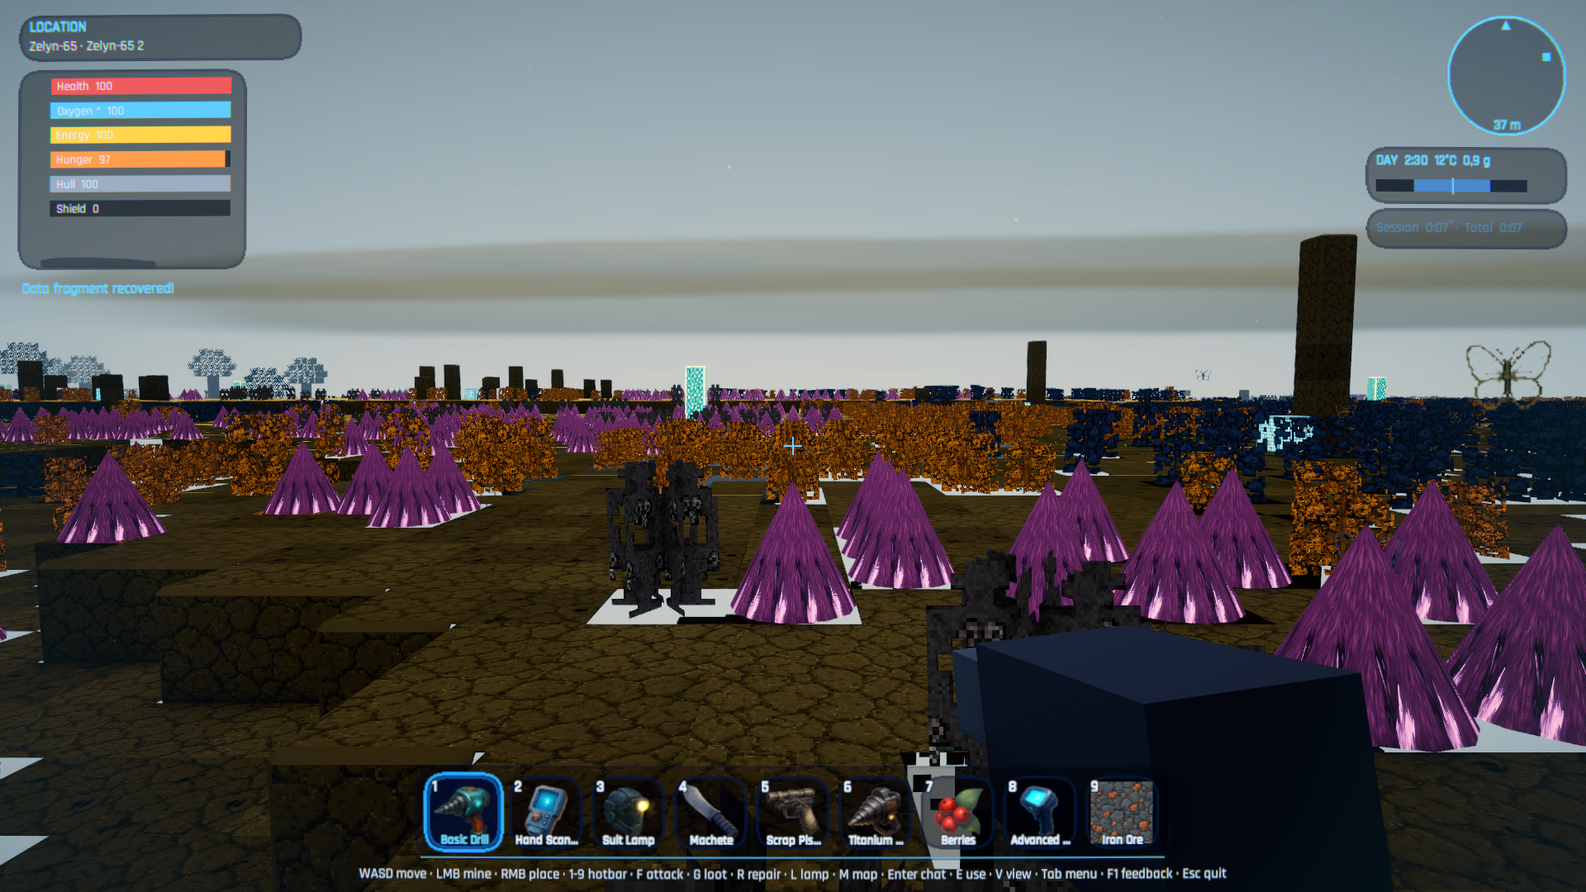
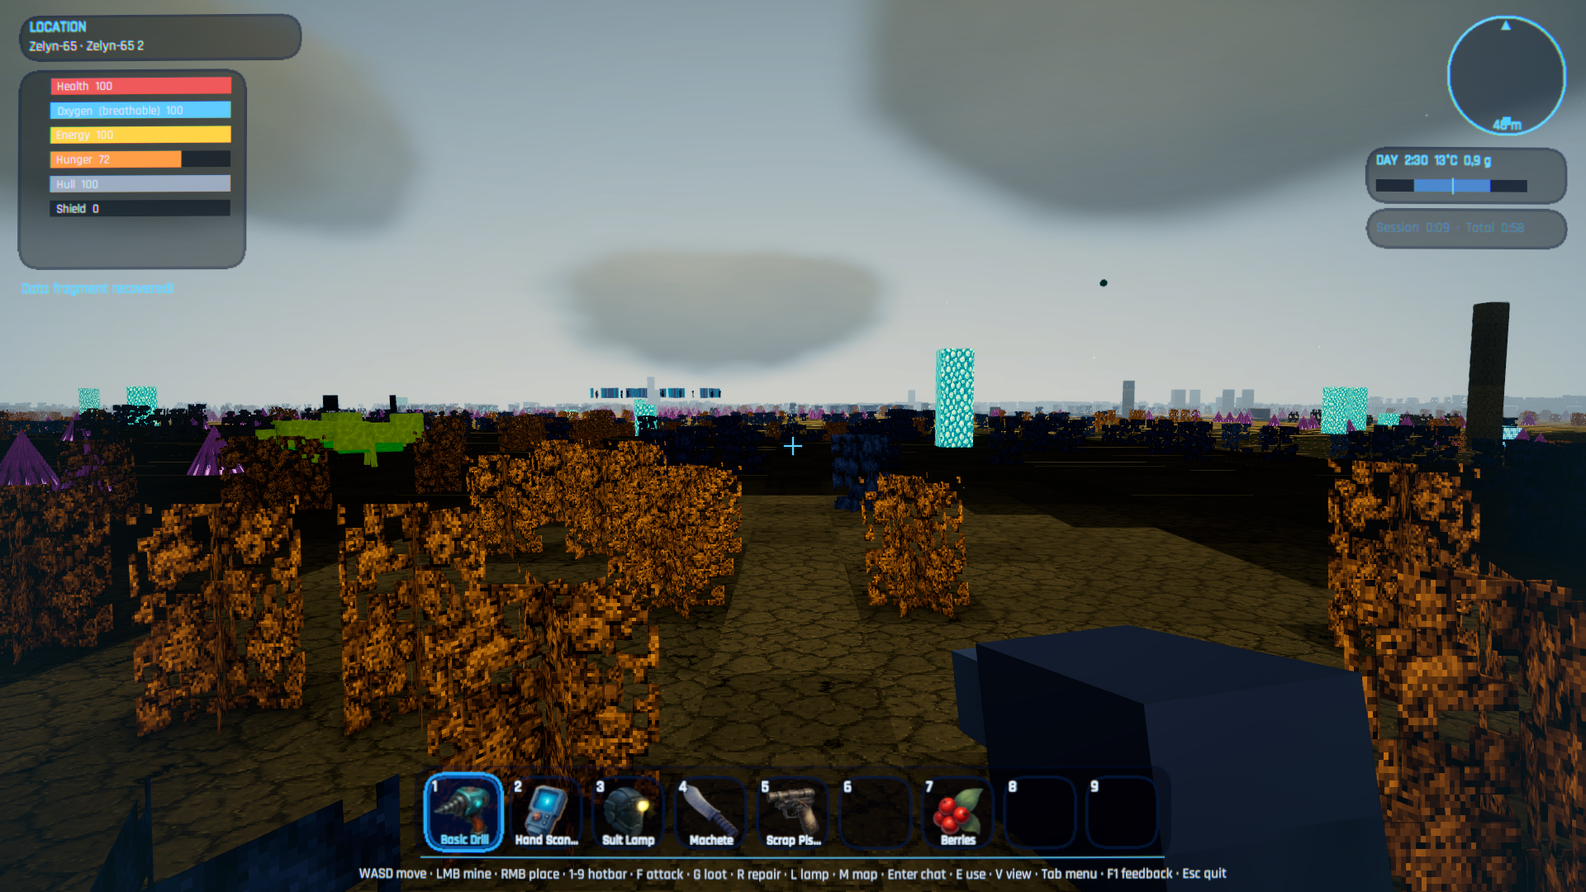
docs(screenshots): regenerate EN marketing set; fix capture director for v0.8.4 (#405)
Regenerates all 13 English marketing screenshots (docs/screenshots/en)
against the current engine — the visual-fidelity fixes of v0.8.4 finally
show in the gallery. The unattended capture run itself had rotted in four
independent ways and is fixed:

- #401 (quit saves live position) made reused MarketingShots saves resume
  with the player on foot OUTSIDE the ship: cockpit shots showed terrain
  and EnterSpace was refused. The wrapper now deletes the main-sequence
  save before each run; the per-planet path skips the take-off round-trip
  when not aboard (waiting up to 8 s for the late Aboard flag) and anchors
  placement on boot.ShipPosition so re-runs don't drift outward.
- A fresh world spawns the player seated at the helm, whose pilot view
  re-locks the camera every frame — surface shots came out as the cockpit
  interior. The per-planet path now does the same EnterSpace→LeaveSpace
  round-trip as the main sequence to step out of the seat.
- The ship's glass skylight has no collider, so the open-sky probe passed
  INSIDE the hull and posed the player facing the Workshop door. A 4-side
  enclosure check rejects interior spots, and the pose now faces away from
  the ship so every surface shot shows the planet's landscape.
- WorldReady defaults true, so the cockpit shot could race the loading
  curtain and capture the black "Loading world" veil. The director waits
  for the new WorldLoadingOverlay.VeilActive capture hook instead.
[…]

diff --git a/client/Assets/BlocksBeyondTheStars/Scripts/ScreenshotDirector.cs b/client/Assets/BlocksBeyondTheStars/Scripts/ScreenshotDirector.cs
@@ -204,7 +204,13 @@ namespace BlocksBeyondTheStars.Client
                 yield break;
             }
 
+            // Wait until the world has FULLY revealed — the loading curtain has faded — not merely WorldReady, which
+            // defaults true and can pass this instant before the load flips it false, catching the cockpit shot on
+            // the black "Loading world" veil. Gating on the veil implicitly waits for WorldReady (the veil needs it
+            // to fade), and is robust to that default-true race.
             yield return WaitUntil(() => boot.WorldReady, WorldLoadTimeout);
+            var overlay = FindAnyObjectByType<WorldLoadingOverlay>();
+            yield return WaitUntil(() => overlay == null || !overlay.VeilActive, WorldLoadTimeout);
             yield return new WaitForSecondsRealtime(ChunkSettle);
 
             // 3) Cockpit HUD — a fresh world starts the player INSIDE the ship (the onboarding cockpit), so just
@@ -241,25 +247,55 @@ namespace BlocksBeyondTheStars.Client
             yield return Capture(Path.Combine(dir, "space_flight.png"));
 
             // 5) Planet surface — land back on the home world, then step the on-foot player OUT of the ship onto
-            //    open terrain. No-arg LeaveSpace lands but keeps you inside the hull in the PLANET world, so the
-            //    capture-pose step works (no input → the on-foot player can't move otherwise); gravity settles
-            //    the player onto the ground, looking back at the landed ship.
+            //    open terrain WELL AWAY from the hull. No-arg LeaveSpace lands but keeps you inside the hull in the
+            //    PLANET world, so the capture-pose step works (no input → the on-foot player can't move otherwise).
             boot.Network.SendLeaveSpace();
             yield return WaitUntil(() => !boot.InSpace, 25f);
             yield return WaitUntil(() => boot.WorldReady, WorldLoadTimeout);
             yield return new WaitForSecondsRealtime(ChunkSettle);
 
+            // Terrain-aware placement (a good distance back from the ship, on solid/open/dry ground) and shoot only
+            // once the player has actually settled on the surface — so the landed ship reads as a background element
+            // instead of the hull/door filling the frame. Falls back to a blind offset if no near chunk collider is
+            // ready in time, so we still write a frame. See PlayerController.PlaceForCaptureNear.
             var pc = FindAnyObjectByType<PlayerController>();
             if (pc != null)
             {
                 var p = boot.PlayerPosition;
-                pc.SetCapturePose(new Vector3(p.x + 16f, p.y + 1f, p.z + 16f), 225f, 4f);
+                var anchor = new Vector3(p.x, p.y, p.z);
+                bool placed = false;
+                float t = 0f;
+                while (t < CaptureReadyTimeout)
+                {
+                    if (!placed)
+                    {
+                        placed = pc.PlaceForCaptureNear(anchor, pitch: 4f);
+                    }
+
+                    bool alive = !boot.AwaitingRespawnConfirm && boot.Health > 0f;
+                    if (placed && pc.IsCaptureGrounded && !pc.IsHeadUnderwater() && alive)
+                    {
+                        break;
+                    }
+
+                    t += Time.unscaledDeltaTime;
+                    yield return null;
+                }
+
+                if (!placed)
+                {
+                    // Blind fallback: step out diagonally and look AWAY from the ship (yaw 45° = toward +x/+z, the
+                    // same corner we stepped to) so we still write a frame if no chunk collider was ready in time.
+                    Debug.LogWarning("[Capture] planet_surface: terrain-aware placement failed — using blind fallback pose.");
+                    pc.SetCapturePose(new Vector3(p.x + 16f, p.y + 1f, p.z + 16f), 45f, 4f);
+                }
             }
 
-            // Pin clear-weather noon so the on-foot shot is bright regardless of the home world's time/weather.
+            // Pin clear-weather noon so the on-foot shot is bright regardless of the home world's time/weather. The
+            // player is already placed, so its longitude offset is final.
             boot.SetCaptureEnvironment(0.5f);
 
-            yield return new WaitForSecondsRealtime(ChunkSettle);
+            yield return new WaitForSecondsRealtime(PoseSettle);
             yield return Capture(Path.Combine(dir, "planet_surface.png"));
 
             Debug.Log("[Capture] Done.");
@@ -267,9 +303,11 @@ namespace BlocksBeyondTheStars.Client
         }
 
         /// <summary>Surface-only capture for one forced planet type (<c>-planet &lt;key&gt;</c>): start a fresh world
-        /// pinned to that planet type, then step the on-foot player out of the spawn hull onto open terrain and
-        /// shoot <c>surface_&lt;key&gt;.png</c>. A fresh world spawns the player INSIDE the ship hull on the surface
-        /// (not a void interior), so no EnterSpace/LeaveSpace round-trip is needed — just SetCapturePose out.</summary>
+        /// pinned to that planet type, take off and land straight back on it (to get out of the onboarding cockpit
+        /// seat), then step the on-foot player out of the hull onto open terrain and shoot <c>surface_&lt;key&gt;.png</c>.
+        /// The fresh world spawns the player SEATED at the helm, whose pilot view re-locks the camera to the cockpit
+        /// every frame — so a bare placement can't leave it. The short EnterSpace→LeaveSpace round-trip (same as the
+        /// main planet_surface shot) drops the player "inside the hull" on the surface, out of the seat.</summary>
         private IEnumerator CapturePlanetSurface(AppShell shell, string dir)
         {
             // A distinct world name per planet so each run is its own fresh save (no leftover state between types).
@@ -289,6 +327,31 @@ namespace BlocksBeyondTheStars.Client
             yield return WaitUntil(() => boot.WorldReady, WorldLoadTimeout);
             yield return new WaitForSecondsRealtime(ChunkSettle);
 
+            // Get out of the onboarding cockpit seat: take off and land straight back on THIS planet, exactly like the
+            // main planet_surface shot. Without this the pilot view keeps the camera locked to the helm and the shot
+            // comes out as the cockpit interior even though placement moved the transform. LeaveSpace drops the player
+            // "inside the hull" on the surface, out of the seat, so the terrain-aware placement below can step out.
+            // Only needed when we actually spawned aboard: a REUSED save resumes wherever the previous run left the
+            // player — on foot outside since #401 (quit saves the live position) — and EnterSpace is refused on foot
+            // (the "board your ship first" toast), so the round-trip must be skipped there. The Aboard flag arrives
+            // with a later PlayerState packet, so give it a moment rather than sampling it once — a fresh world read
+            // false here and skipped the round-trip, leaving the camera seat-locked (the ocean cockpit frame).
+            yield return WaitUntil(() => boot.Aboard, 8f);
+            if (boot.Aboard)
+            {
+                boot.Network.SendEnterSpace();
+                yield return WaitUntil(() => boot.InSpace, 25f);
+                yield return new WaitForSecondsRealtime(ChunkSettle);
+                boot.Network.SendLeaveSpace();
+                yield return WaitUntil(() => !boot.InSpace, 25f);
+                yield return WaitUntil(() => boot.WorldReady, WorldLoadTimeout);
+                yield return new WaitForSecondsRealtime(ChunkSettle);
+            }
+            else
+            {
+                Debug.Log($"[Capture] {_planet}: resumed on foot (not aboard) — skipping the take-off round-trip.");
+            }
+
             // Step the on-foot player out of the hull onto REAL terrain near the ship, facing back at it. The
             // terrain-aware placement raycasts down to the actual surface (no blind offset), so the player isn't
             // dropped through the floor / off a floating island / into water — the exact failures that wrecked the
@@ -302,8 +365,12 @@ namespace BlocksBeyondTheStars.Client
                 yield break;
             }
 
+            // Anchor on the SHIP, not the player: on a reused save the player resumes wherever the previous run
+            // placed them (out on the terrain), and anchoring there would drift the shot another ring further out
+            // every regeneration. ShipPosition comes from the landed-ship placement; player position is the
+            // fallback for a fresh world where it hasn't arrived yet (the player is inside the hull there anyway).
             var p = boot.PlayerPosition;
-            var anchor = new Vector3(p.x, p.y, p.z);
+            var anchor = boot.ShipPosition ?? new Vector3(p.x, p.y, p.z);
 
             bool placed = false;
             bool ready = false;
@@ -328,6 +395,7 @@ namespace BlocksBeyondTheStars.Client
                 yield return null;
             }
 
+            Debug.Log($"[Capture] {_planet}: ready={ready} placed={placed} aboard={boot.Aboard} grounded={pc.IsCaptureGrounded}");
             if (!ready)
             {
                 Debug.LogWarning($"[Capture] {_planet}: no safe dry footing near the ship (placed={placed}) — skipping shot.");
@@ -362,6 +430,9 @@ namespace BlocksBeyondTheStars.Client
 
         private IEnumerator Capture(string path)
         {
+            // Never catch the VEGA onboarding/greeting dialog in a frame — a fresh world queues her intro
+            // lines right at spawn. (No-op on the menu, where no panel exists yet.)
+            FindAnyObjectByType<VegaPanel>()?.DismissSpeechForCapture();
             yield return new WaitForEndOfFrame(); // let the pipeline finish the frame before reading it back
             Texture2D tex = null;
             try

diff --git a/client/Assets/BlocksBeyondTheStars/Scripts/PlayerController.cs b/client/Assets/BlocksBeyondTheStars/Scripts/PlayerController.cs
@@ -1225,10 +1225,14 @@ namespace BlocksBeyondTheStars.Client
             }
 
             float half = _controller.height * 0.5f + _controller.skinWidth;
-            // Start clear of the hull (~16), then nearer (for small floating islands) and a little farther; every
-            // candidate is gated by the open-sky check below, so a too-near one that lands inside the hull is
-            // rejected rather than shot.
-            float[] dists = { 16f, 13f, 19f, 11f, 22f, 25f };
+            // Stand a good way BACK from the ship on OPEN terrain, then face AWAY from the hull so the shot shows the
+            // planet's landscape (the world-variety point) instead of the ship's wall/door filling the frame. The
+            // spawn sits the player INSIDE the ship interior, whose glass skylight leaves "open sky" overhead — so the
+            // sky check alone can't tell inside-the-hull from outside; the enclosure check below (walls on most sides →
+            // indoors) is what reliably rejects an interior spot. Radii stay within the streamed-in chunk ring around
+            // spawn (a far spot lands over an unbaked chunk and the down-ray simply misses); nearer radii are fallbacks
+            // for small floating islands.
+            float[] dists = { 20f, 17f, 24f, 14f, 28f, 12f, 32f };
             for (int di = 0; di < dists.Length; di++)
             {
                 for (int a = 0; a < 8; a++)
@@ -1259,15 +1263,38 @@ namespace BlocksBeyondTheStars.Client
                         continue;
                     }
 
-                    // Open sky overhead? A hit means a ceiling above us (ship hull / cave / overhang) → indoors.
+                    // Open sky overhead? A hit means a solid ceiling above us (cave / overhang / hull under a solid
+                    // roof) → indoors. (The ship's glass skylight has no collider, so this passes for an interior spot
+                    // under it — the enclosure check below is what catches those.)
                     if (Physics.Raycast(stand + Vector3.up * 0.3f, Vector3.up, out var up, 5f, ~0, QueryTriggerInteraction.Ignore)
                         && up.collider != _controller)
                     {
                         continue;
                     }
 
+                    // Boxed in by walls? Cast head-height rays outward on all four sides; a spot inside the ship's
+                    // interior room hits a wall on (almost) every side within a couple of blocks, while an outdoor
+                    // spot sees open space (a single hit — e.g. the hull on the ship-facing side — is fine). This is
+                    // the check that keeps the shot OUTSIDE, since the skylight fools the open-sky test above.
+                    Vector3 eye = stand + Vector3.up * (half * 0.8f);
+                    int walls = 0;
+                    Vector3[] sides = { Vector3.forward, Vector3.back, Vector3.left, Vector3.right };
+                    foreach (var s in sides)
+                    {
+                        if (Physics.Raycast(eye, s, out var w, 5f, ~0, QueryTriggerInteraction.Ignore) && w.collider != _controller)
+                        {
+                            walls++;
+                        }
+                    }
+                    if (walls >= 3)
+                    {
+                        continue; // enclosed on three+ sides → inside the hull, not out on the surface
+                    }
+
                     SnapTo(stand);
-                    Vector3 d = anchor - transform.position;
+                    // Face AWAY from the ship (from hull → player), so the camera looks out over the terrain and the
+                    // ship falls behind the player, out of frame.
+                    Vector3 d = transform.position - anchor;
                     float yaw = (Mathf.Abs(d.x) + Mathf.Abs(d.z) > 0.01f)
                         ? Mathf.Atan2(d.x, d.z) * Mathf.Rad2Deg
                         : transform.eulerAngles.y;
@@ -1278,10 +1305,12 @@ namespace BlocksBeyondTheStars.Client
                         Camera.transform.localEulerAngles = new Vector3(_pitch, 0f, 0f);
                     }
 
+                    Debug.Log($"[Capture] PlaceForCaptureNear: placed at dist={dists[di]} ang={a * 45}° walls={walls} y={stand.y:F1}");
                     return true;
                 }
             }
 
+            Debug.LogWarning("[Capture] PlaceForCaptureNear: no open outdoor spot found around the ship.");
             return false;
         }
 

diff --git a/client/Assets/BlocksBeyondTheStars/Scripts/VegaPanel.cs b/client/Assets/BlocksBeyondTheStars/Scripts/VegaPanel.cs
@@ -80,6 +80,19 @@ namespace BlocksBeyondTheStars.Client
 
         private string L(string key) => Game?.Localizer?.Get(key) ?? key;
 
+        /// <summary>Capture hook (<see cref="ScreenshotDirector"/>): drop any queued VEGA speech and hide the
+        /// panel, so an unattended screenshot run never catches the onboarding/greeting dialog in the frame.
+        /// (Previously a fresh world needed a throwaway run just to get past the intro lines.)</summary>
+        public void DismissSpeechForCapture()
+        {
+            _queue.Clear();
+            _current = string.Empty;
+            if (_speech != null)
+            {
+                _speech.SetActive(false);
+            }
+        }
+
         private void OnLine(ShipAiLine m)
         {
             _objectiveKey = m.ObjectiveKey ?? string.Empty;

diff --git a/client/Assets/BlocksBeyondTheStars/Scripts/WorldLoadingOverlay.cs b/client/Assets/BlocksBeyondTheStars/Scripts/WorldLoadingOverlay.cs
@@ -23,6 +23,10 @@ namespace BlocksBeyondTheStars.Client
     {
         public GameBootstrap Game;
 
+        /// <summary>Capture hook (<see cref="ScreenshotDirector"/>): true while the loading curtain is on screen, so
+        /// a screenshot run can wait for the world to fully reveal instead of shooting through the veil.</summary>
+        public bool VeilActive => _active;
+
         private const int DotCount = 12;       // spinner dots around the ring
         private const float Ring = 30f;        // spinner radius (reference units)
         private const float MinShow = 3.0f;    // always hold the screen long enough to read it (planet + station)

diff --git a/docs/screenshots/README.md b/docs/screenshots/README.md
@@ -23,7 +23,7 @@ Gallery shows the English set (`en/`); a matching German set lives in `de/`.
     <td width="50%"><img src="en/space_flight.png" width="100%" alt="Space flight"><br><sub><b>space_flight.png</b> — Space flight: ship + flight HUD, asteroids and a planet behind</sub></td>
   </tr>
   <tr>
-    <td width="50%"><img src="en/planet_surface.png" width="100%" alt="Planet surface"><br><sub><b>planet_surface.png</b> — Player view on a planet surface, the landed ship behind</sub></td>
+    <td width="50%"><img src="en/planet_surface.png" width="100%" alt="Planet surface"><br><sub><b>planet_surface.png</b> — Player view on a planet surface, looking out over the terrain</sub></td>
     <td width="50%"></td>
   </tr>
 </table>
@@ -48,18 +48,19 @@ variety. Each is a separate run that spawns a fresh world pinned to that type
     <td width="50%"><img src="en/surface_skylands.png" width="100%" alt="Skylands surface"><br><sub><b>surface_skylands.png</b> — Floating skylands world</sub></td>
   </tr>
   <tr>
-    <td width="50%"><img src="en/surface_ocean.png" width="100%" alt="Ocean surface"><br><sub><b>surface_ocean.png</b> — Ocean world (water-dominated, so the view is mostly sea)</sub></td>
+    <td width="50%"><img src="en/surface_ocean.png" width="100%" alt="Ocean surface"><br><sub><b>surface_ocean.png</b> — Ocean world (algae mats over shallow water)</sub></td>
     <td width="50%"><img src="en/surface_desert.png" width="100%" alt="Desert surface"><br><sub><b>surface_desert.png</b> — Arid/forested world</sub></td>
   </tr>
 </table>
 
 > **Placement** is terrain-aware (`PlayerController.PlaceForCaptureNear`): the director probes a ring
-> of spots around the landed ship and only stands on a SOLID, DRY one with OPEN SKY above (a downward
-> ray for the surface, an upward ray to reject the ship hull / caves / overhangs), then waits until the
-> player is grounded, alive and not submerged before the shot — otherwise it skips that type rather
-> than writing a broken frame. This fixed the earlier fungal/skylands fall-throughs and the ocean
-> submersion. **ocean** is an honest water-world view (mostly sea); **desert** spawned right against a
-> tree — both are candidates for a nicer reshoot.
+> of spots around the landed ship and only stands on a SOLID, DRY one with OPEN SKY above and NOT
+> boxed in by walls (the enclosure check — the ship's glass skylight lets the plain open-sky ray pass
+> even *inside* the hull), then waits until the player is grounded, alive and not submerged before the
+> shot — otherwise it skips that type rather than writing a broken frame. The player stands well back
+> from the ship and faces AWAY from it, so each shot shows the planet's landscape (the ship stays
+> behind the camera). On water-dominated **ocean** worlds no dry footing may exist near the ship — the
+> run then skips the shot and keeps the previous PNG.
 
 ## How to regenerate
 
@@ -107,12 +108,16 @@ because some state can't be reached without input during an unattended run:
 **Determinism:** a fixed world (`MarketingShots`) + a fixed seed (`-seed`, default `424242`) make
 every run reproducible, so the set can be regenerated after any game change.
 
-Two planet surfaces use hand-picked seeds because the default seed framed them badly (jungle: camera
-against a tree trunk; lava: dark, no lava in view): **jungle = `-Seed 133742`**, **lava = `-Seed 8080`**.
+Three planet surfaces use hand-picked seeds because the default seed framed them badly (jungle: camera
+against a tree trunk; lava: dark, no lava in view; ocean: a dark thicket wall): **jungle = `-Seed 133742`**,
+**lava = `-Seed 8080`**, **ocean = `-Seed 555555`**.
 Note that the per-planet worlds are persisted saves (`singleplayer-saves/MarketingShots_<type>`) — a
 re-run reuses the existing world and ignores `-seed`; delete the save to regenerate from a new seed.
-The very first run on a fresh world catches the VEGA intro dialog in the frame, so after deleting a
-save do one throwaway run before the real capture.
+The MAIN-sequence world (`MarketingShots`) is deleted automatically by the wrapper before each run:
+since #401 a quit saves the live player position, so a reused save would resume the player on foot
+outside the ship, breaking the cockpit shots and the take-off. The director dismisses VEGA's intro
+lines before every shot (`VegaPanel.DismissSpeechForCapture`), so fresh worlds no longer need a
+throwaway run.
 
 ### Tuning
 

diff --git a/TODO.md b/TODO.md
@@ -100,6 +100,29 @@ Per-item detail lives in the dated work log below.
 
 ---
 
+### ★ Marketing screenshots regenerated; capture director survives the #401 live-position save (2026-07-19, branch docs/screenshots-regen)
+The README/marketing screenshots (docs/screenshots/en, 13 shots) were regenerated against the v0.8.4
+engine — and the unattended capture run was broken in four independent ways, several caused by recent
+engine changes. (1) Since **#401** a quit saves the live player position, so a reused `MarketingShots*`
+save resumes with the player **on foot outside** where the last run left them — the cockpit shots showed
+terrain and `EnterSpace` was refused ("board your ship first"). The wrapper now deletes the main-sequence
+save before each run, and the per-planet path skips the take-off round-trip when not aboard (waiting up
+to 8 s for the late-arriving `Aboard` PlayerState flag — sampling it once mis-read a fresh world) and
+anchors placement on `boot.ShipPosition` instead of the player (no ring-drift across regenerations).
+(2) A fresh world spawns the player **seated at the helm**, whose pilot view re-locks the camera every
+frame — surface shots came out as the cockpit interior; the per-planet path now does the same short
+EnterSpace→LeaveSpace round-trip as the main sequence to step out of the seat. (3) The ship's glass
+skylight has no collider, so `PlaceForCaptureNear`'s open-sky probe passed **inside** the hull and posed
+the player in front of the Workshop door; a 4-side enclosure check (≥3 walls at head height ⇒ indoors)
+now rejects interior spots, and the pose faces **away** from the ship so shots show the landscape.
+(4) `WorldReady` defaults true, so the cockpit shot could race the loading curtain and capture the black
+"Loading world" veil (the telltale 49 KB PNG); the director now also waits for the new
+`WorldLoadingOverlay.VeilActive` capture hook. VEGA's intro lines are dismissed before every shot
+(`VegaPanel.DismissSpeechForCapture`), retiring the "one throwaway run after deleting a save" ritual.
+Ocean joins jungle/lava as a hand-picked seed (`-Seed 555555`; the default framed a near-black thicket).
+All hooks are `-captureShots`-only — normal gameplay untouched. Client-only + docs; DE set intentionally
+left for a later run (README gallery links the EN set).
+
 ### ★ Walking ground robots now actually spawn on planets — not only flying drones (#398, 2026-07-18)
 Two variants of the planet "Guardian machines" are meant to appear on the surface: the flying scan-drone and
 the walking three-eyed ground robots. In playtests only the drones ever showed up. Not a client/render bug
